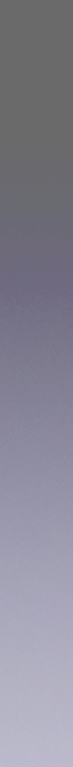
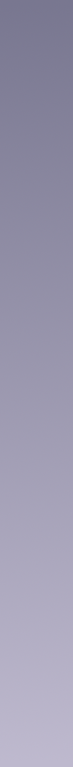
More readable skin
git-svn-id: svn+ssh://murphy/home/svn/platal/trunk@797 839d8a87-29fc-0310-9880-83ba4fa771e5

diff --git a/htdocs/css/keynote.css b/htdocs/css/keynote.css
@@ -29,7 +29,7 @@ body {
     background: url('../images/skins/keynote_bg.png') top left repeat-x;
     
     background-attachment: fixed;
-    background-color: #525168;
+    background-color: #4f4e63;
     color: #fff;
 }
 
@@ -66,7 +66,7 @@ legend {
 *******************************************************************************/
 
 p {
-    margin-bottom: 0.5em;
+    margin-bottom: 0.4em;
     text-align: justify;
 }
 
@@ -85,12 +85,19 @@ p {
 
 h1 {
     color: #fff;
-    background: none;
+    background: url('../images/skins/keynote_titlepuce2.gif') top left no-repeat;
+    height: 24px;
+    margin: 0.5em 0 0 0;
+    padding: 6px 0 0 24px;
+}
+
+h1:hover {
+    background: url('../images/skins/keynote_titlepuce.gif') top left no-repeat;
 }
 
 h2 {
     padding: 0.5em 0em 0em 0em;
-    margin: 0em;
+    margin: 0;
     font-size: 100%;
     font-weight: bold;
 }
@@ -108,8 +115,8 @@ p.explication, div.explication {
 }
 
 li.spaced {
-    padding-top: 0.5em;
-    padding-bottom: 0.5em;
+    padding-top: 0.2em;
+    padding-bottom: 0.3em;
     text-align: justify;
 }
 
@@ -120,6 +127,7 @@ li.spaced {
 table.bicol, table.tinybicol {
     background: url('../images/skins/keynote_bg_lighter.png') top left repeat-x;
     background-attachment: fixed;
+    background-color: #848495;
     border: none;
     border-top: 1px solid #fff;
     border-left: 1px solid #fff;
@@ -127,13 +135,15 @@ table.bicol, table.tinybicol {
 
 table.tinybicol tr.pair, table.bicol tr.pair {
     background: url('../images/skins/keynote_bg_verylighter.png') top left repeat-x;
-    background-attachment: fixed; 
+    background-attachment: fixed;
+    background-color: #bbbbca;
 }
 
 table.tinybicol th, table.bicol th {
     color: #fff;
     background: url('../images/skins/keynote_title.gif') top left repeat-x;
     background-color: #000;
+    height: 17px;
 }
 table.tinybicol td, table.bicol td {
     color: #000000;
@@ -163,7 +173,8 @@ td.action a { padding: 0px 2px 0px 2px; }
 
 #skin {
     background: url('../images/skins/keynote_bg_lighter.png') top left repeat-x;
-    background-attachment: fixed; 
+    background-attachment: fixed;
+    background-color: #848495;
     color: #000;
     border-bottom: none;
     border-top: 1px solid #fff;
@@ -176,6 +187,7 @@ td.action a { padding: 0px 2px 0px 2px; }
 #skin td.skigauche {
     background: url('../images/skins/keynote_bg_verylighter.png') top left repeat-x;
     background-attachment: fixed;
+    background-color: #bbbbca;
 }
 
 /*******************************************************************************
@@ -187,6 +199,7 @@ div.contact-list div.contact {
     border-top: 1px solid #fff;
     background: url('../images/skins/keynote_bg_verylighter.png') top left repeat-x;
     background-attachment: fixed;
+    background-color: #bbbbca;
     color: #000;
 }
 
@@ -198,6 +211,7 @@ div.grayed {
 div.grayed div.contact {
     background: url('../images/skins/keynote_bg_verylighter.png') top left repeat-x;
     background-attachment: fixed;
+    background-color: #bbbbca;
 }
 
 div.contact div.nom {
@@ -218,6 +232,7 @@ div.contact div.bits {
 div.contact div.long {
     background: url('../images/skins/keynote_bg_lighter.png') top left repeat-x;
     background-attachment: fixed;
+    background-color: #848495;
 }
 
 /*******************************************************************************
@@ -302,6 +317,7 @@ td.conteneur_tab {
     border-left: 1px solid #fff;
     background: url('../images/skins/keynote_bg_lighter.png') top left repeat-x;
     background-attachment: fixed;
+    background-color: #848495;
 }
 
 #fiche em {
@@ -332,6 +348,7 @@ td.conteneur_tab {
     border-top: 1px dotted #fff;
     border-left: 1px dotted #fff;
     background: url('../images/skins/keynote_bg_verylighter.png') top left repeat-x;
+    background-color: #bbbbca;
     background-attachment: fixed;
 }
 
